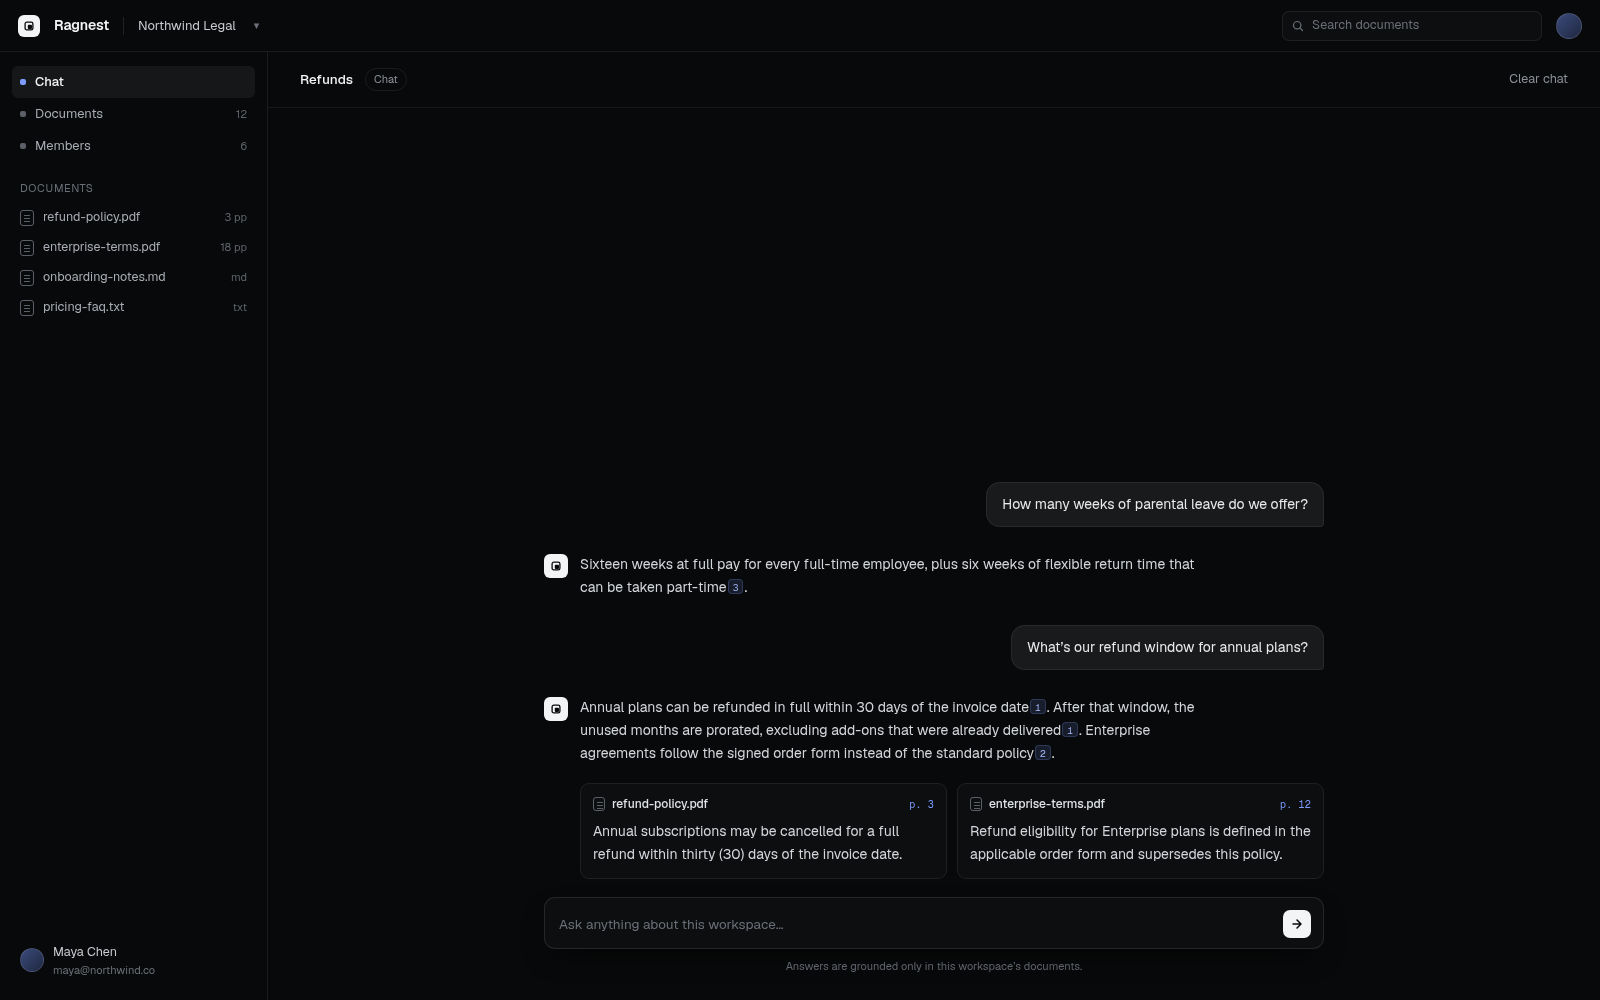
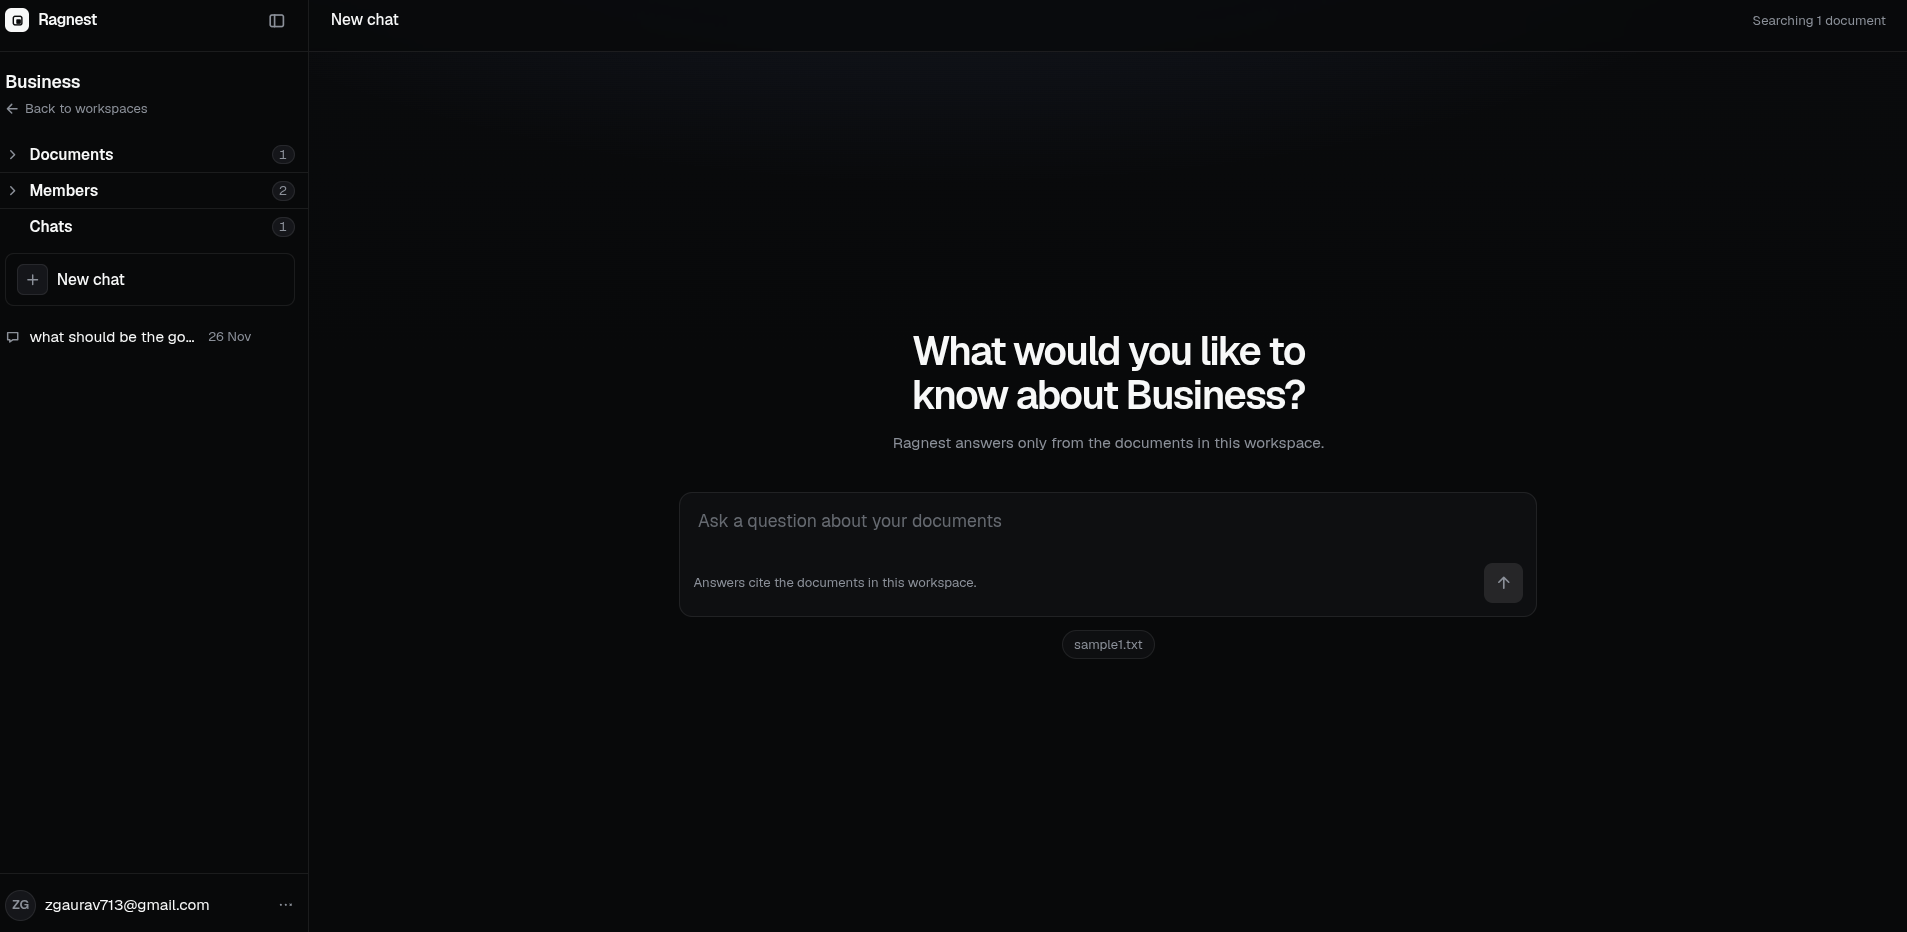
feat(web): redesign landing page around human-first document Q&A

diff --git a/apps/web/app/page.tsx b/apps/web/app/page.tsx
@@ -6,61 +6,206 @@ import { SiteShell } from "@/components/site-shell";
 import { site } from "@/lib/site";
 
 export const metadata: Metadata = {
-  title: "Ragnest — The knowledge system for teams and agents",
+  title: "Ragnest — Ask your documents, get answers you can check",
   description:
-    "Upload documents, ask questions, get answers with citations. Built for the AI era.",
+    "Turn your team's txt, md, and pdf files into a knowledge base you can question in plain language. Every answer cites the document it came from.",
 };
+
+const facts = [
+  {
+    label: "Answers with sources",
+    detail: "Every reply points back to the document it came from.",
+  },
+  {
+    label: "Only your workspace",
+    detail: "Documents and chats stay inside the workspace they belong to.",
+  },
+  {
+    label: "Files you already have",
+    detail: "Upload txt, md, or pdf files up to 5 MB each.",
+  },
+];
+
+const steps = [
+  {
+    title: "Create a workspace",
+    detail:
+      "One private place for a team, a project, or a topic. Invite people only when you want to share.",
+  },
+  {
+    title: "Add your documents",
+    detail:
+      "Drop in txt, md, and pdf files. Ragnest reads the text and indexes it in the background.",
+  },
+  {
+    title: "Ask a question",
+    detail:
+      "Chat the way you would with a colleague. Answers come from that workspace's documents and cite the source.",
+  },
+];
+
+const guarantees = [
+  {
+    title: "Grounded in your files",
+    detail:
+      "Ragnest finds relevant passages in your workspace before it writes an answer. It does not fill gaps from general knowledge.",
+  },
+  {
+    title: "Honest when it does not know",
+    detail:
+      "If no document covers the question, you get a clear refusal instead of a confident guess.",
+  },
+  {
+    title: "Citations that stick",
+    detail:
+      "Each answer saves its source snapshot, so you can still see where it came from later.",
+  },
+];
+
+const primaryLink =
+  "inline-flex h-11 items-center justify-center rounded-full bg-foreground px-6 text-sm font-medium text-background transition-colors duration-150 hover:bg-foreground/90";
+const secondaryLink =
+  "inline-flex h-11 items-center justify-center rounded-full border border-border px-6 text-sm font-medium text-foreground transition-colors duration-150 hover:border-muted";
 
 export default function LandingPage() {
   return (
     <SiteShell>
       <main className="flex-1">
-        <Container className="pt-24 pb-16 sm:pt-32 sm:pb-20 lg:pt-36">
-          <h1 className="max-w-4xl text-[clamp(2.25rem,6vw,5rem)] leading-[1.02] font-semibold tracking-[-0.045em] text-balance">
-            The knowledge system for teams and agents
-          </h1>
-
-          <p className="mt-6 max-w-[42rem] text-[17px] leading-7 text-pretty text-muted sm:text-lg">
-            Upload documents, ask questions, get answers with citations. Built
-            for the AI era.
-          </p>
-
-          <div className="mt-9">
-            <Link
-              href="/signup"
-              className="inline-flex h-11 items-center justify-center rounded-full bg-foreground px-6 text-[15px] font-medium text-background transition-colors duration-150 hover:bg-foreground/90"
-            >
-              Create an account
-            </Link>
+        <Container className="pt-20 pb-12 sm:pt-28 sm:pb-16">
+          <div className="max-w-3xl">
+            <h1 className="text-[clamp(2.5rem,5vw,3rem)] leading-[1.08] font-semibold tracking-[-0.04em] text-balance">
+              Ask your documents. Get answers you can check.
+            </h1>
+            <p className="mt-6 max-w-2xl text-base leading-7 text-muted sm:text-lg sm:leading-8">
+              Ragnest turns the files your team already has into a knowledge base
+              you can question in plain language. Every answer comes from your
+              workspace&apos;s documents and cites the file it came from, so you
+              can verify it in seconds.
+            </p>
+            <div className="mt-8 flex flex-wrap gap-3">
+              <Link href="/signup" className={primaryLink}>
+                Create an account
+              </Link>
+              <Link href="#how-it-works" className={secondaryLink}>
+                See how it works
+              </Link>
+            </div>
           </div>
         </Container>
 
-        <section aria-label="Product preview" className="pb-24 sm:pb-32">
-          <Container>
-            <div className="relative">
-              <div
-                aria-hidden="true"
-                className="pointer-events-none absolute -inset-x-10 -top-20 bottom-0 rounded-full bg-[radial-gradient(50%_50%_at_50%_50%,rgba(124,156,255,0.14),transparent_70%)] blur-3xl"
-              />
-
-              <div className="relative overflow-hidden rounded-xl border border-border bg-surface p-1.5 shadow-[0_40px_120px_-48px_rgba(0,0,0,0.9)]">
-                <div className="relative overflow-hidden rounded-[7px]">
-                  <Image
-                    src={site.previewImage}
-                    alt="A Ragnest workspace showing an answer with citations to the source document and page."
-                    width={1600}
-                    height={1000}
-                    priority
-                    sizes="(min-width: 1280px) 1216px, (min-width: 1024px) calc(100vw - 64px), calc(100vw - 48px)"
-                    className="h-auto w-full"
-                  />
-                  <div
-                    aria-hidden="true"
-                    className="pointer-events-none absolute inset-x-0 bottom-0 h-1/3 bg-gradient-to-t from-background via-background/70 to-transparent"
-                  />
-                </div>
+        <section aria-label="What Ragnest gives you" className="border-y border-border">
+          <Container className="grid gap-8 py-8 sm:grid-cols-3">
+            {facts.map((fact) => (
+              <div key={fact.label}>
+                <h2 className="text-sm font-medium">{fact.label}</h2>
+                <p className="mt-2 max-w-xs text-sm leading-6 text-muted">
+                  {fact.detail}
+                </p>
               </div>
+            ))}
+          </Container>
+        </section>
+
+        <section aria-label="Product preview" className="py-14 sm:py-20">
+          <Container>
+            <figure>
+              <div className="overflow-hidden rounded-lg border border-border bg-surface">
+                <Image
+                  src={site.previewImage}
+                  alt="A Ragnest workspace with documents and chats in the sidebar and a new chat ready in the main pane."
+                  width={1907}
+                  height={932}
+                  priority
+                  sizes="(min-width: 1280px) 1216px, (min-width: 1024px) calc(100vw - 64px), calc(100vw - 48px)"
+                  className="h-auto w-full"
+                />
+              </div>
+              <figcaption className="mt-4 text-[13px] text-muted">
+                A Ragnest workspace: documents, members, and chats in one place.
+              </figcaption>
+            </figure>
+          </Container>
+        </section>
+
+        <section
+          id="how-it-works"
+          aria-labelledby="how-it-works-heading"
+          className="border-t border-border py-14 sm:py-20"
+        >
+          <Container>
+            <h2
+              id="how-it-works-heading"
+              className="text-2xl font-semibold tracking-[-0.03em] text-balance sm:text-3xl"
+            >
+              From files to answers in three steps
+            </h2>
+            <p className="mt-4 max-w-2xl text-base leading-7 text-muted">
+              You don&apos;t need to configure a vector store or write prompts.
+              Ragnest handles the indexing, so you can spend your time on the
+              question instead of the setup.
+            </p>
+            <ol className="mt-10 grid gap-8 sm:grid-cols-3 sm:gap-10">
+              {steps.map((step, index) => (
+                <li key={step.title} className="border-t border-border pt-5">
+                  <span className="font-mono text-[13px] text-muted">
+                    {String(index + 1).padStart(2, "0")}
+                  </span>
+                  <h3 className="mt-3 text-lg font-medium tracking-[-0.02em]">
+                    {step.title}
+                  </h3>
+                  <p className="mt-2 text-sm leading-6 text-muted">
+                    {step.detail}
+                  </p>
+                </li>
+              ))}
+            </ol>
+          </Container>
+        </section>
+
+        <section
+          aria-labelledby="grounded-heading"
+          className="border-t border-border py-14 sm:py-20"
+        >
+          <Container>
+            <h2
+              id="grounded-heading"
+              className="text-2xl font-semibold tracking-[-0.03em] text-balance sm:text-3xl"
+            >
+              Know where every answer came from
+            </h2>
+            <p className="mt-4 max-w-2xl text-base leading-7 text-muted">
+              General-purpose chat tools will answer about anything, whether or
+              not they have the facts. Ragnest answers only from the documents in
+              the workspace you asked, and shows you the source alongside the
+              answer.
+            </p>
+            <dl className="mt-10 grid gap-8 sm:grid-cols-3 sm:gap-10">
+              {guarantees.map((guarantee) => (
+                <div key={guarantee.title} className="border-t border-border pt-5">
+                  <dt className="text-[15px] font-medium">{guarantee.title}</dt>
+                  <dd className="mt-2 text-sm leading-6 text-muted">
+                    {guarantee.detail}
+                  </dd>
+                </div>
+              ))}
+            </dl>
+          </Container>
+        </section>
+
+        <section className="border-t border-border py-14 sm:py-20">
+          <Container className="flex flex-col items-start gap-6 sm:flex-row sm:items-end sm:justify-between">
+            <div>
+              <h2 className="text-2xl font-semibold tracking-[-0.03em] text-balance sm:text-3xl">
+                Start with one document
+              </h2>
+              <p className="mt-3 max-w-xl text-sm leading-6 text-muted">
+                Create a workspace, add a file, and ask your first question. Your
+                answers will always point back to the source.
+              </p>
             </div>
+            <Link href="/signup" className={primaryLink}>
+              Create an account
+            </Link>
           </Container>
         </section>
       </main>

diff --git a/apps/web/lib/site.ts b/apps/web/lib/site.ts
@@ -6,7 +6,7 @@ export const site = {
   name: "Ragnest",
   /** Static pages prerender, so the year is set here rather than read from a clock. */
   year: 2026,
-  /** Replace public/app-preview.png with a real screenshot at the same path. */
+  /** Cover screenshot served from public/, sourced from screenshots/ragnest.png. */
   previewImage: "/app-preview.png",
   social: [{ label: "GitHub", href: "https://github.com/9gvrv/ragnest" }],
 } as const;
